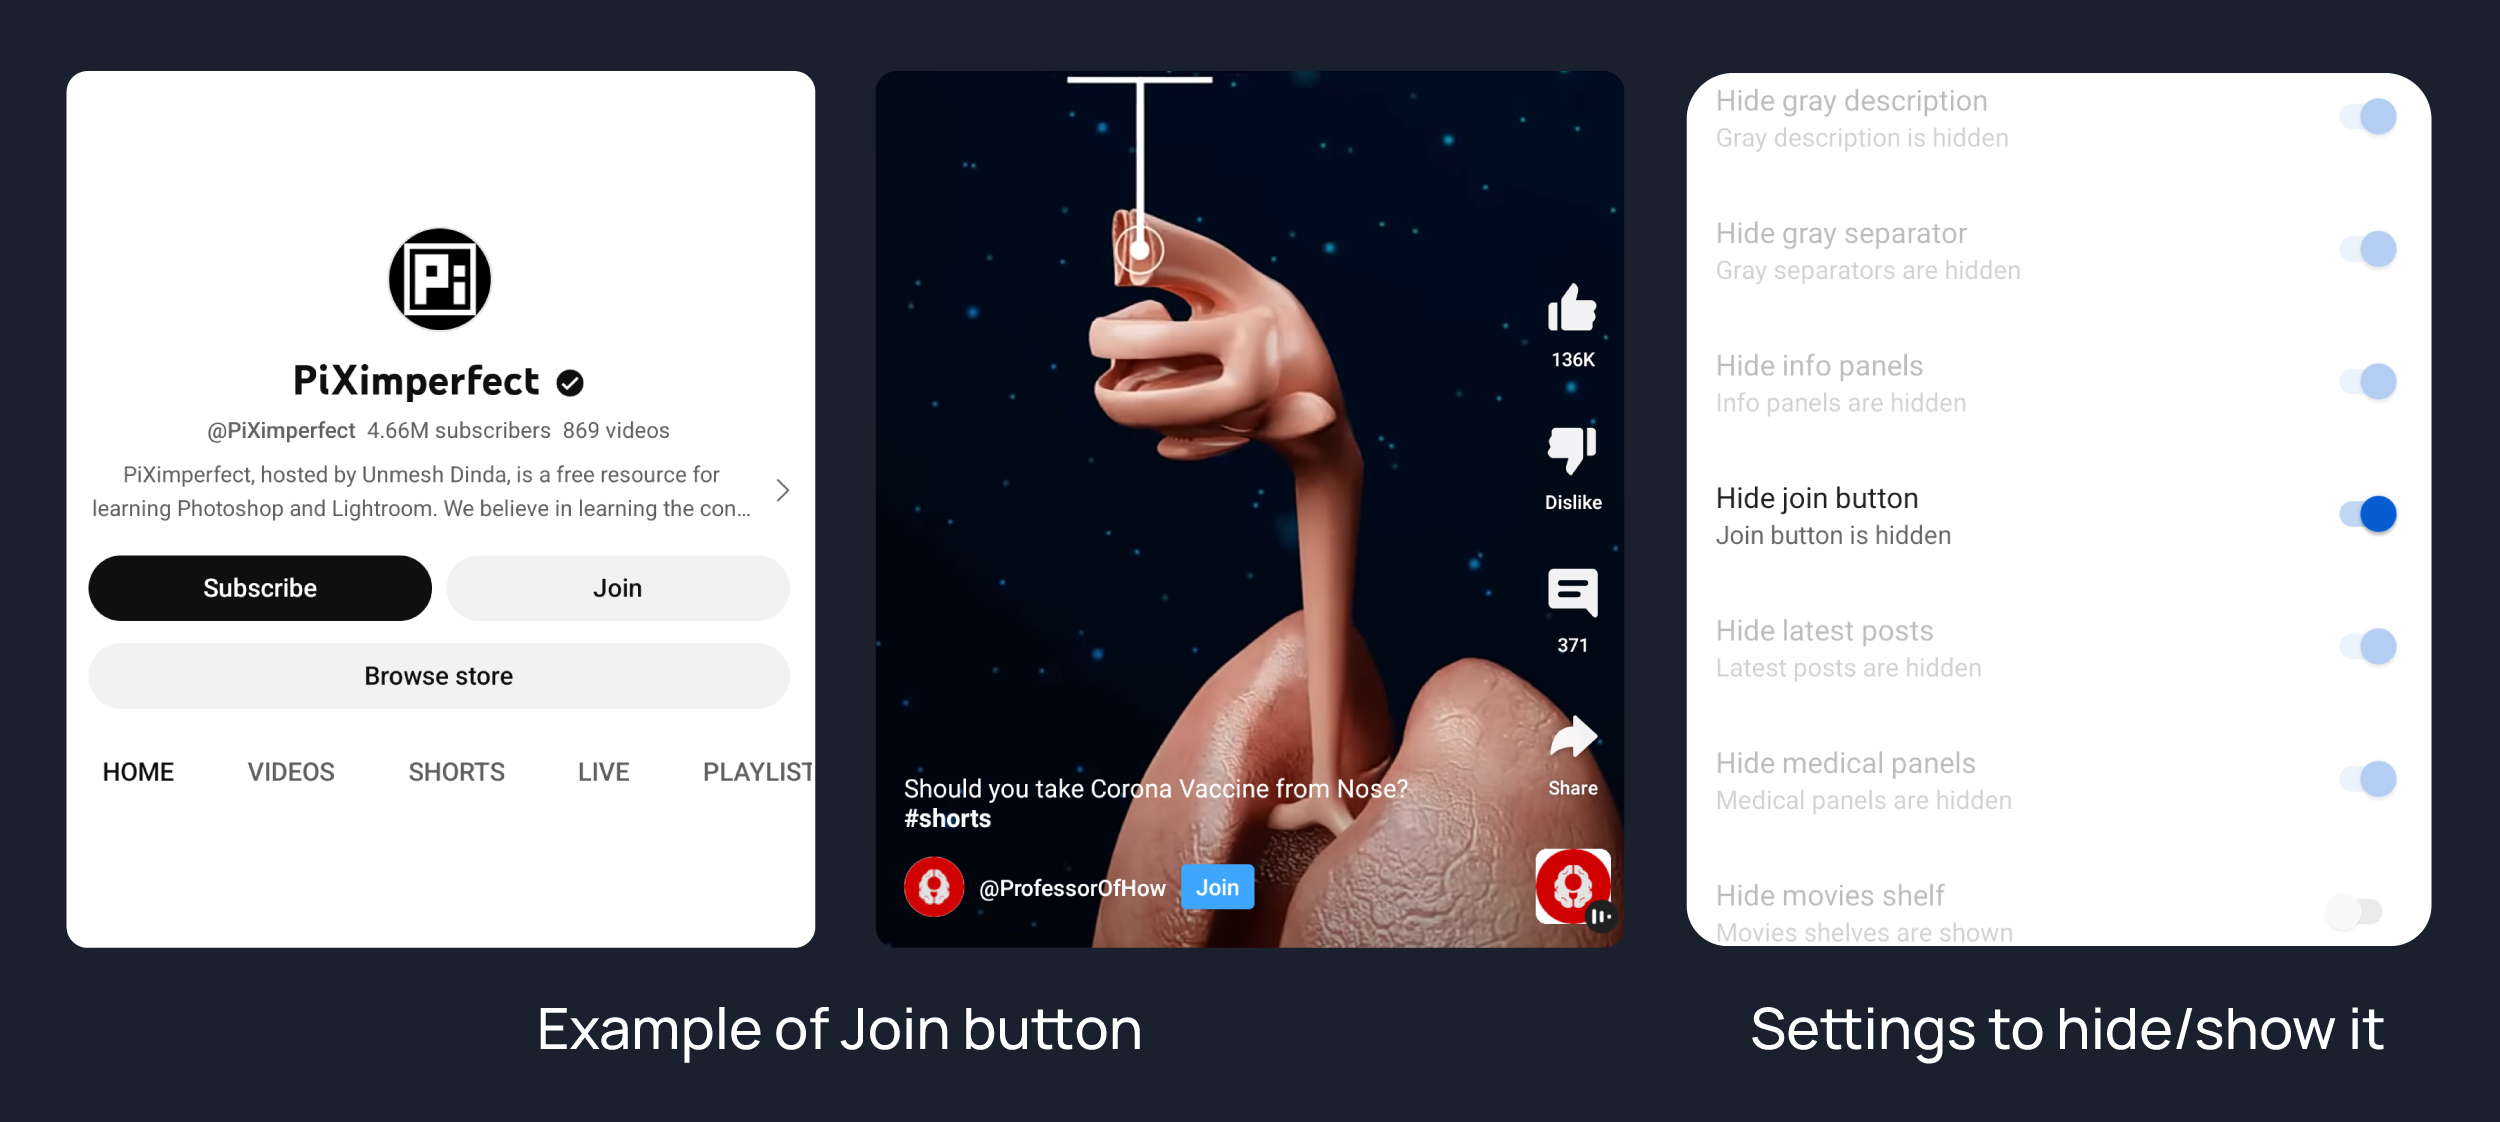
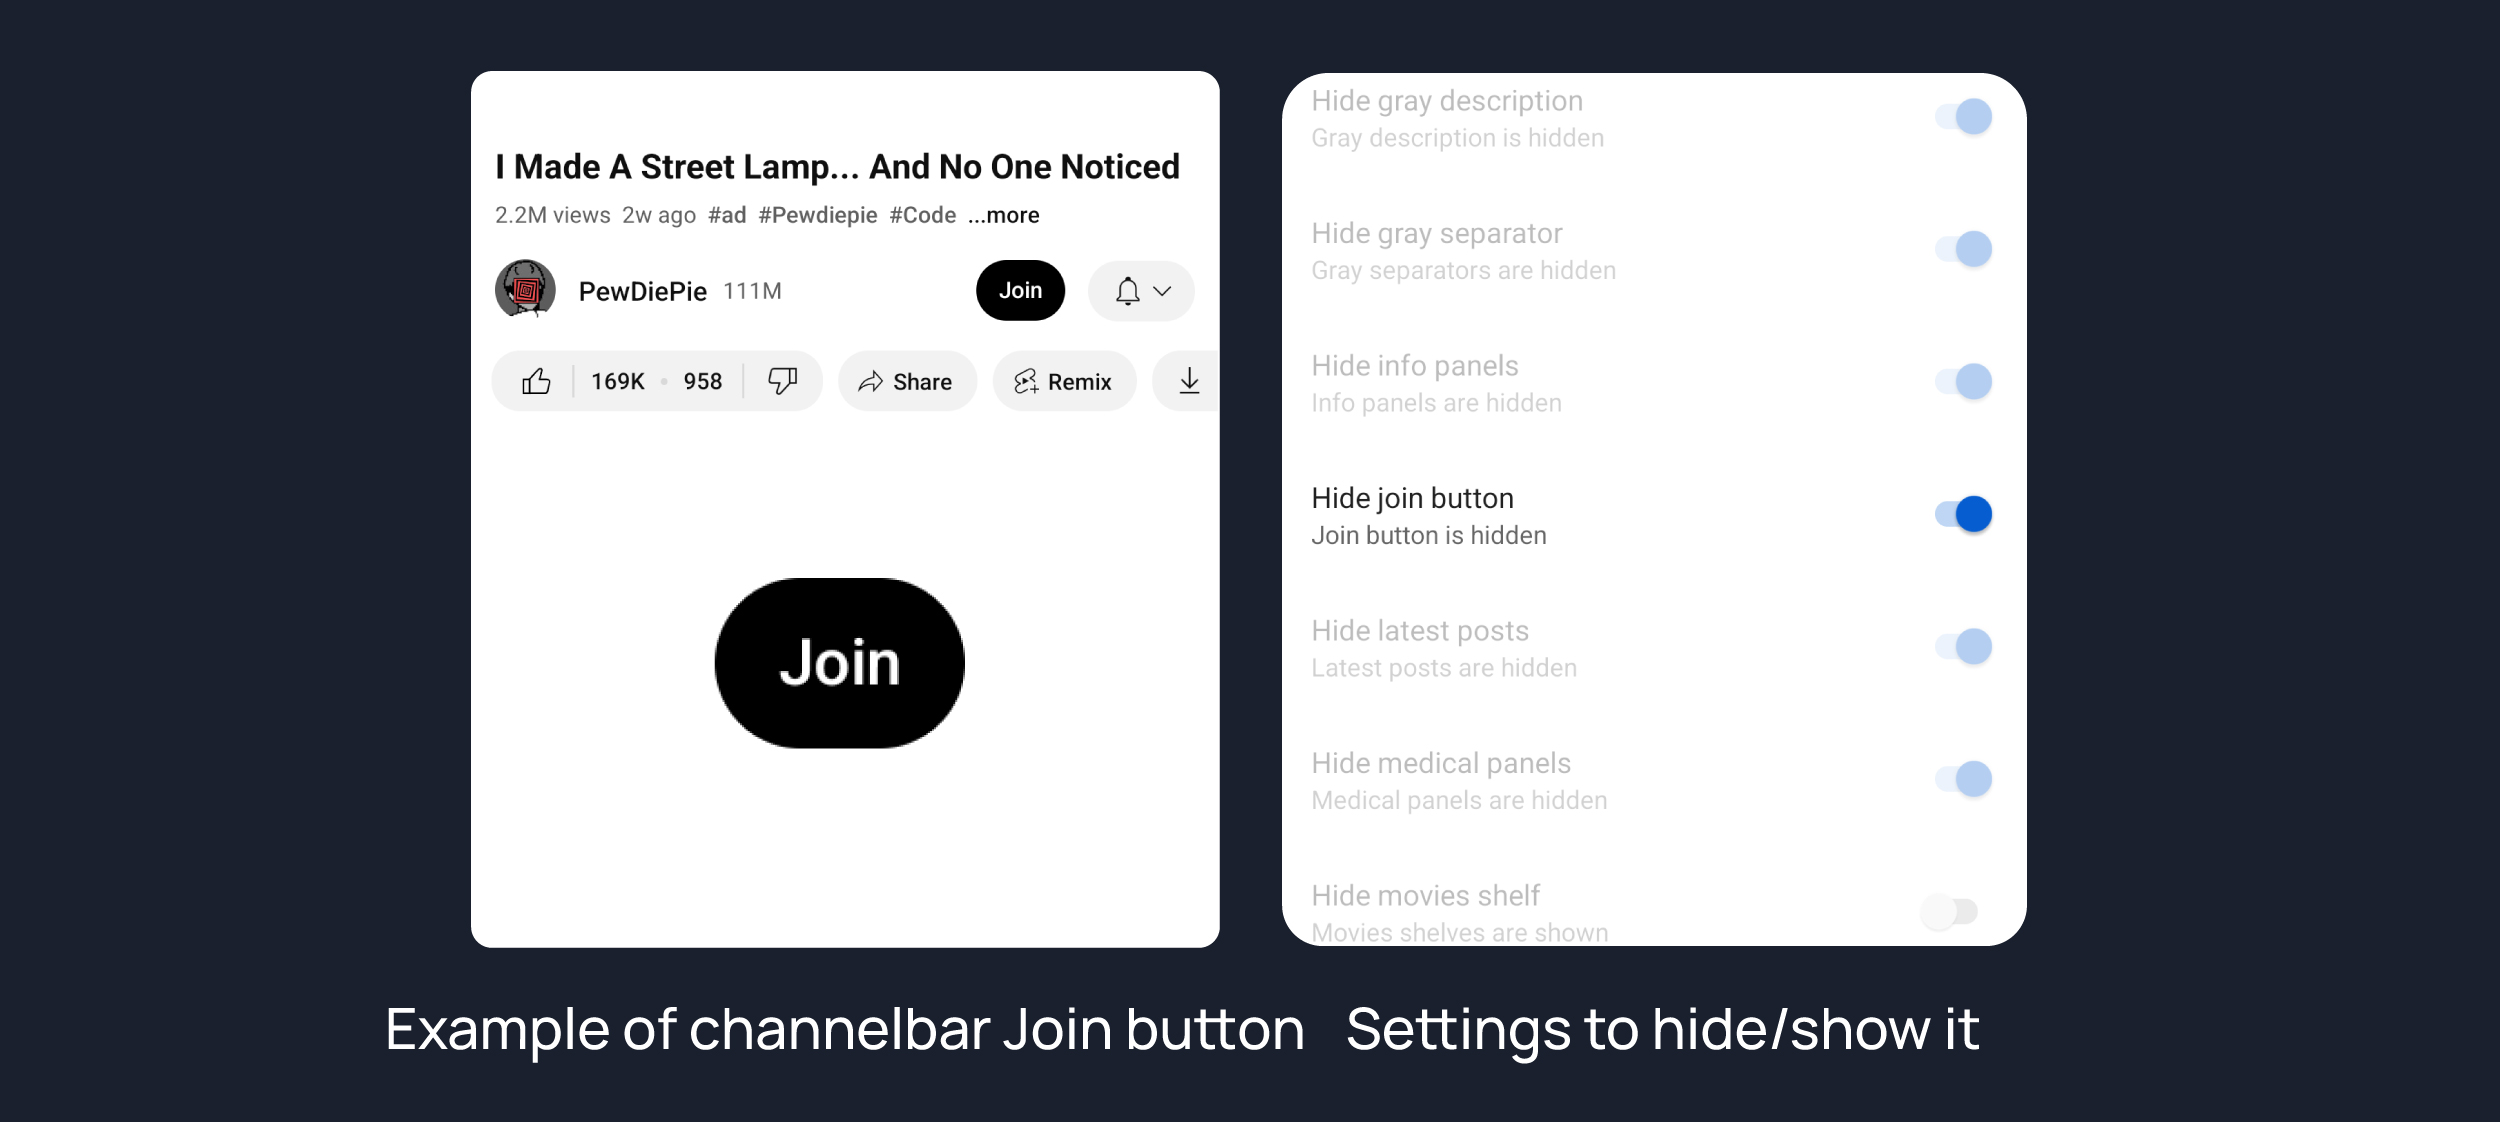
fix/add: some assets

diff --git a/README.md b/README.md
@@ -244,7 +244,7 @@ You can also hide them separately.
 <img src="/assets/youtube/general/hide-info-panels.jpg" >
 
 **Hide join Button**
->Hides join button besides subscribe button.
+>Hides join button in channelbar.
 <img src="/assets/youtube/general/hide-join-button.jpg" >
 
 **Hide latest posts**
@@ -648,6 +648,8 @@ https://github.com/kazimmt/RVX-Features/assets/82371061/9e0dcdfd-fe78-44c5-bc23-
 
 **Hide paid promotion banner**
 >Hides paid promotion banner in shorts.
+
+![](assets/youtube/shorts/Hide-paid-promotion-banner.jpg)
 
 **Hide remix button**
 >Hides remix button in shorts
